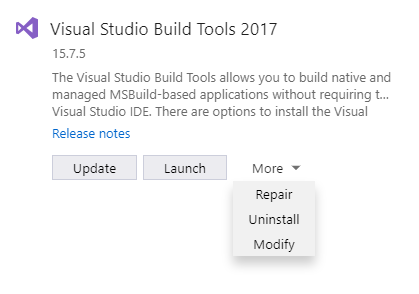
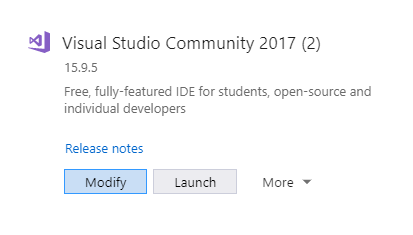
UTY-1633

diff --git a/docs/content/get-started/set-up.md b/docs/content/get-started/set-up.md
@@ -63,19 +63,19 @@ The SpatialOS GDK for Unity source code is hosted on GitHub. You need to downloa
 
  **Using Visual Studio?**
 
-As you install [Visual Studio](https://www.visualstudio.com/downloads/), click on the **Workloads** tab in the Installer. If you already have Visual Studio installed, you can find this by clicking on the **More** option for *Visual Studio Build Tools* in the Visual Studio Installer, and selecting **Modify** from the drop-down menu.
+As you install [Visual Studio](https://www.visualstudio.com/downloads/), click on the **Workloads** tab in the Installer. If you already have Visual Studio installed, you can find this by clicking the **Modify** option for Visual Studio Community 2017. If the **Modify** option is not visible, this option may also be found in the drop-down menu that appears when you select the **More** option.
 
 ![Click Modify to find the Workloads tab.]({{assetRoot}}assets/setup/windows/visualstudioworkloads.png)
 
 Once you have navigated to the **Workloads** tab:
 
 - Select **.NET Core cross-platform development**.
-- After selecting **Game development with Unity**:
+- Select **Game development with Unity**:
   - Deselect any options in the **Summary** on the right that mention a Unity Editor (for example, Unity 2017.2 64-bit Editor or Unity 2018.1 64-bit Editor).
-  - The SpatialOS GDK for Unity requires **Unity 2018.3.2**, which should already be installed if you have followed the setup guide correctly.
+  - The SpatialOS GDK for Unity requires **Unity 2018.3.2**, which you already installed in step 1.
   - Make sure **Visual Studio Tools for Unity** is included (there should be a tick next to it).
 
-> **Warning**: Older versions of Visual Studio 2017 have been known to cause some issues with Unity 2018.3.2 - the issues are projects loading and unloading frequently, and Intellisense breaking. If you do experience these issues, try updating to a newer version of Visual Studio 2017.
+> **Warning**: Older versions of Visual Studio 2017 have been known to cause some issues with Unity 2018.3.2 - the issues are projects loading and unloading frequently, and Intellisense breaking. If you do experience these issues, try updating to the latest version of Visual Studio 2017.
 
 **Using Rider?**
 
